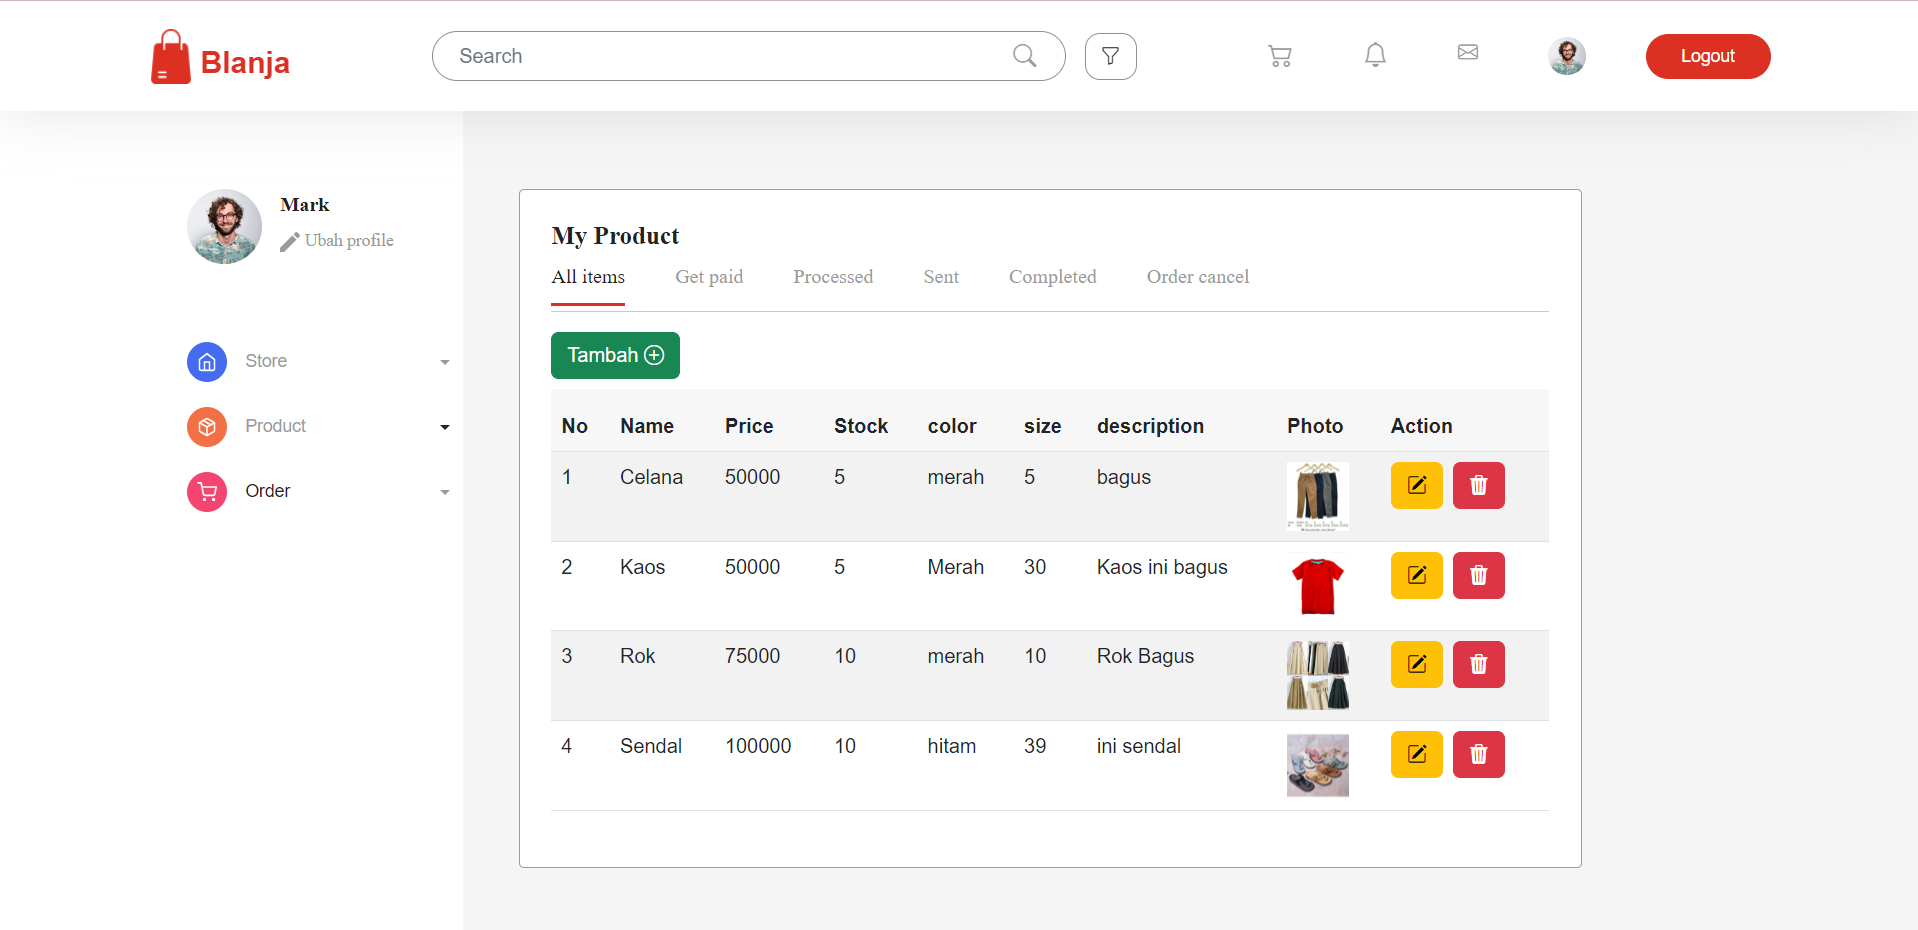
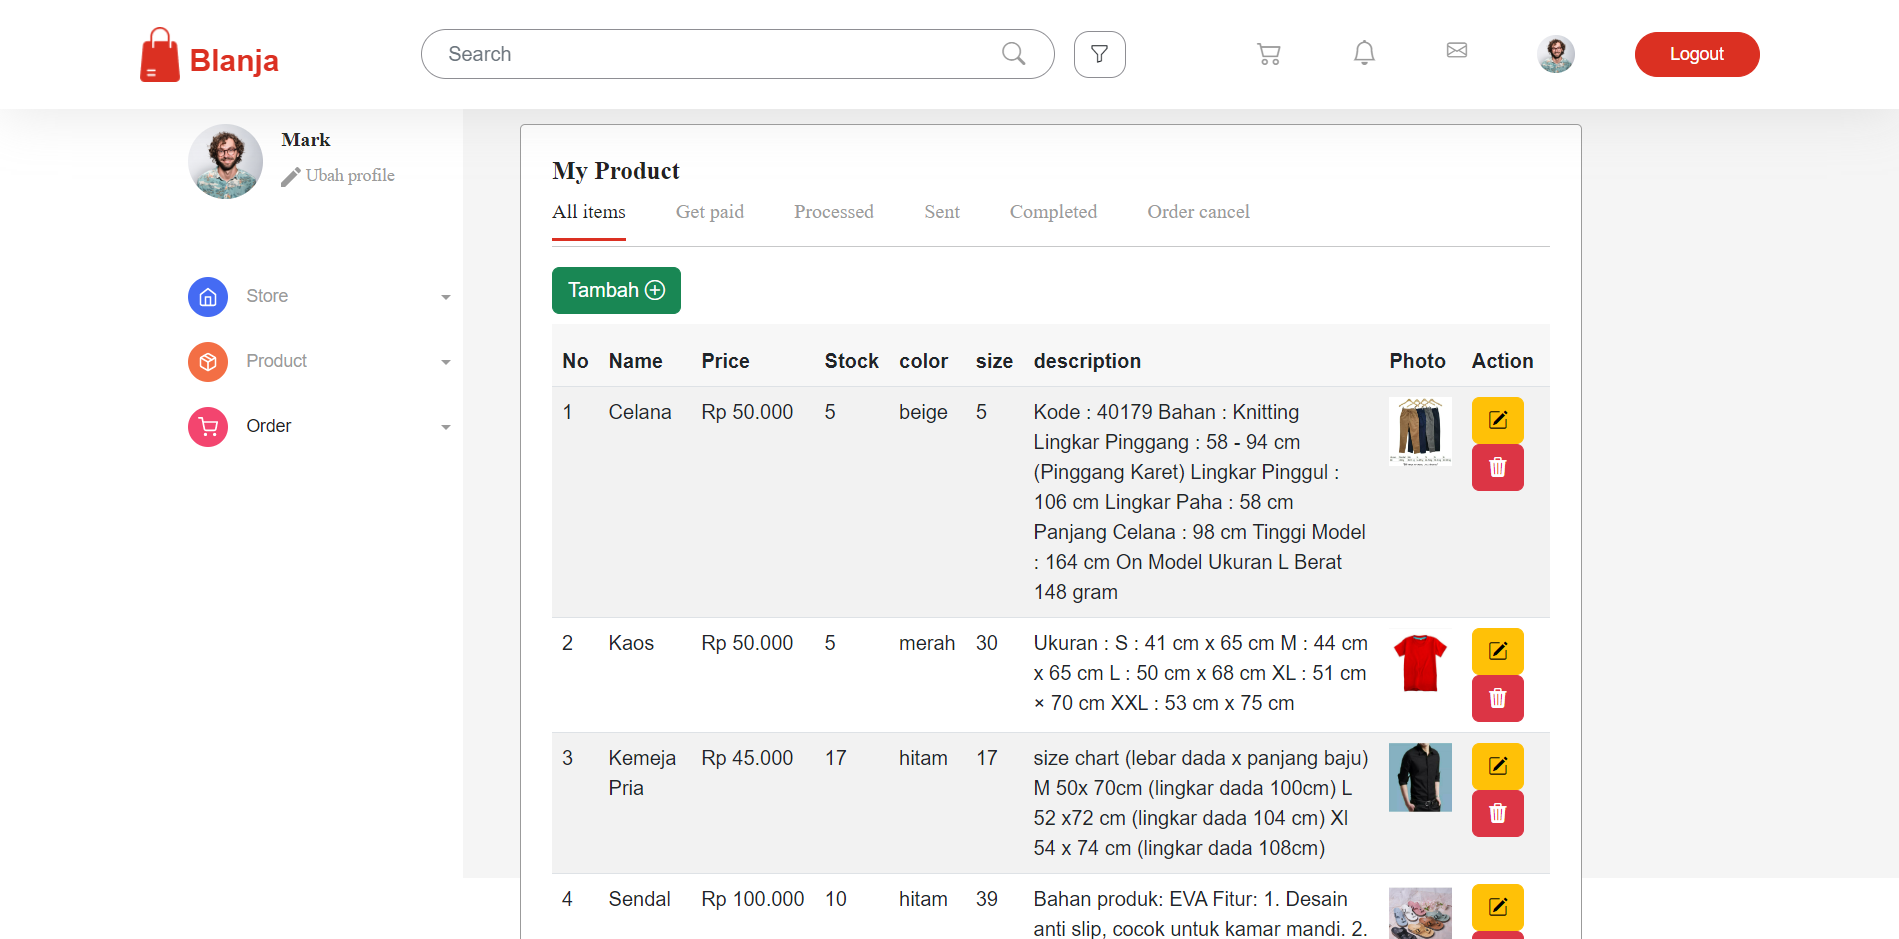
new update

diff --git a/src/pages/profile/seller/MyOrder.jsx b/src/pages/profile/seller/MyOrder.jsx
@@ -4,6 +4,7 @@ import './myOrder.css';
 import Table from 'react-bootstrap/Table';
 import { useState, useEffect } from 'react';
 import axios from 'axios';
+import { FormatRupiah } from '@arismun/format-rupiah';
 import ModalCreate from '../../../components/modal/ModalCreate';
 import ModalEdit from '../../../components/modal/ModalEdit';
 import ModalDelete from '../../../components/modal/ModalDelete';
@@ -196,7 +197,9 @@ const MyOrder = () => {
                     <tr key={item.id}>
                       <td>{index + 1}</td>
                       <td>{item.name}</td>
-                      <td>{item.price}</td>
+                      <td>
+                        <FormatRupiah value={item.price} />
+                      </td>
                       <td>{item.stock}</td>
                       <td>{item.color}</td>
                       <td>{item.size}</td>
